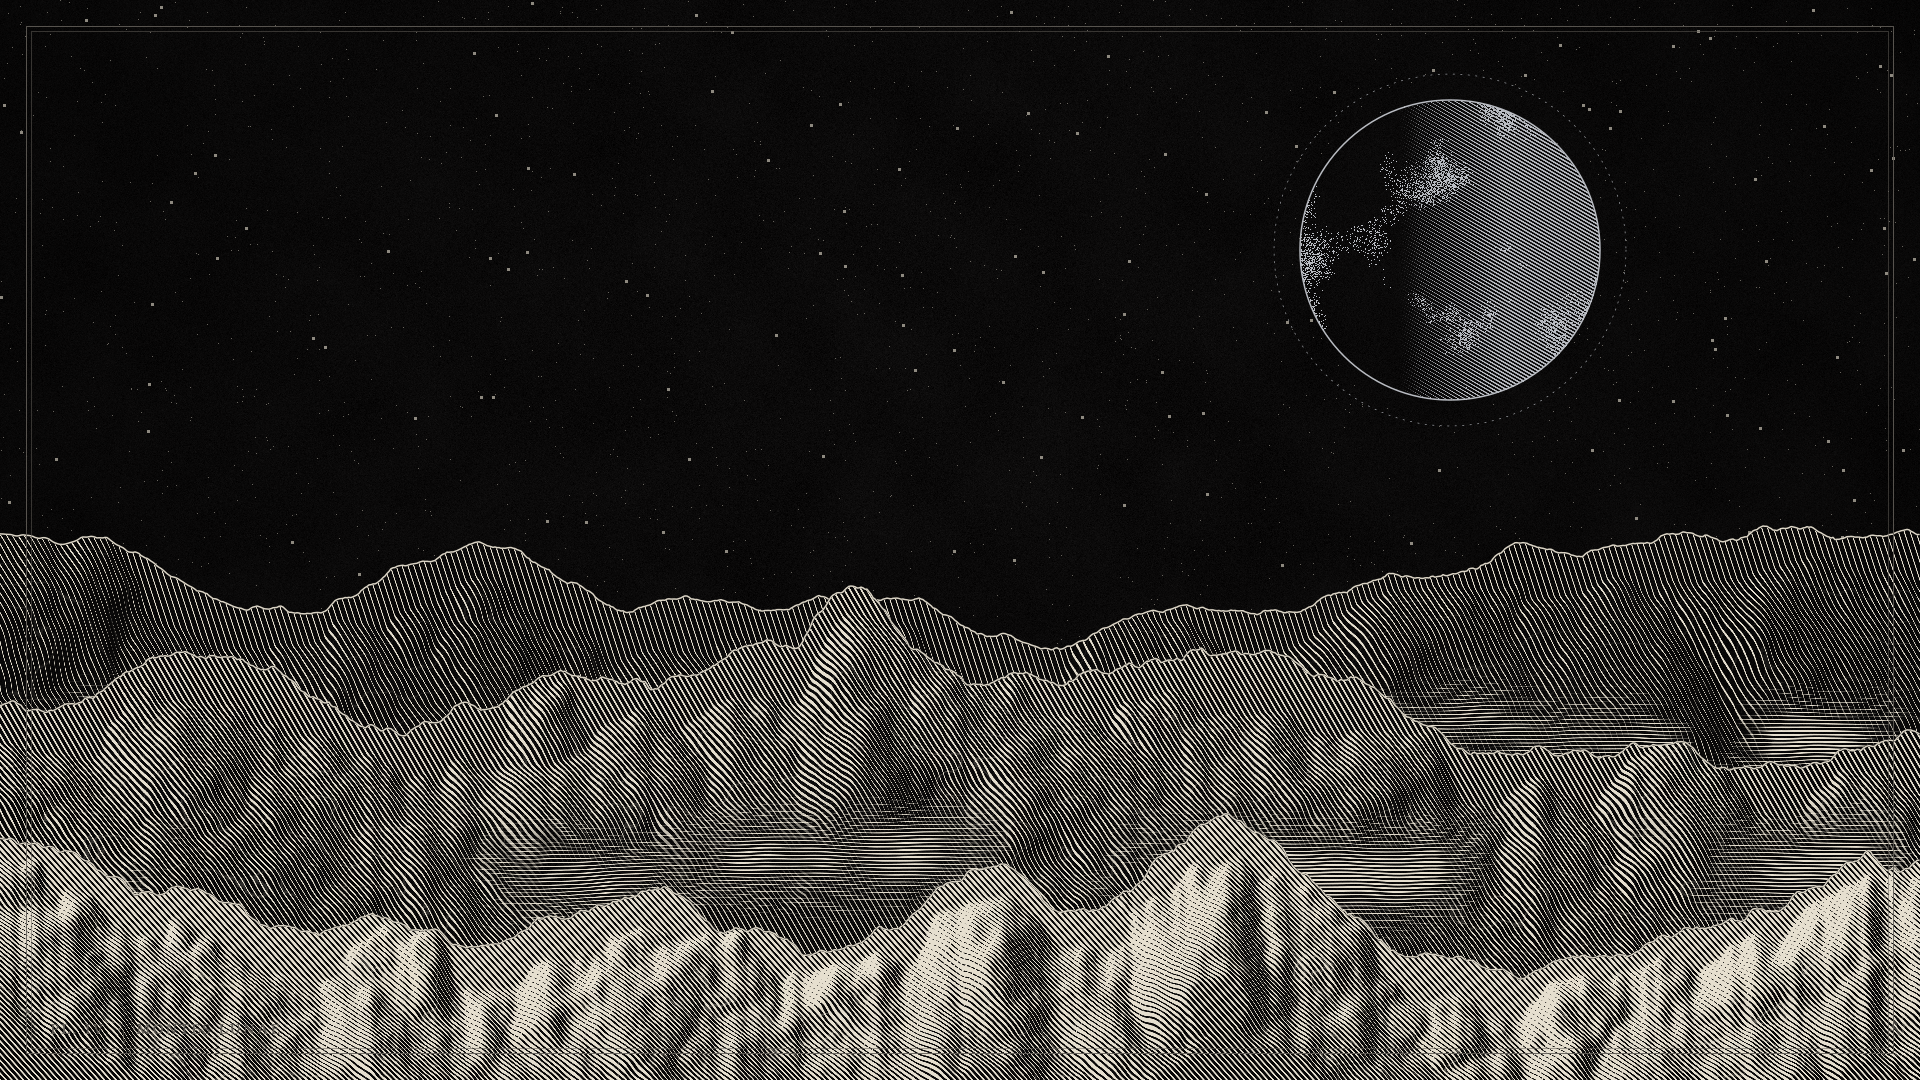
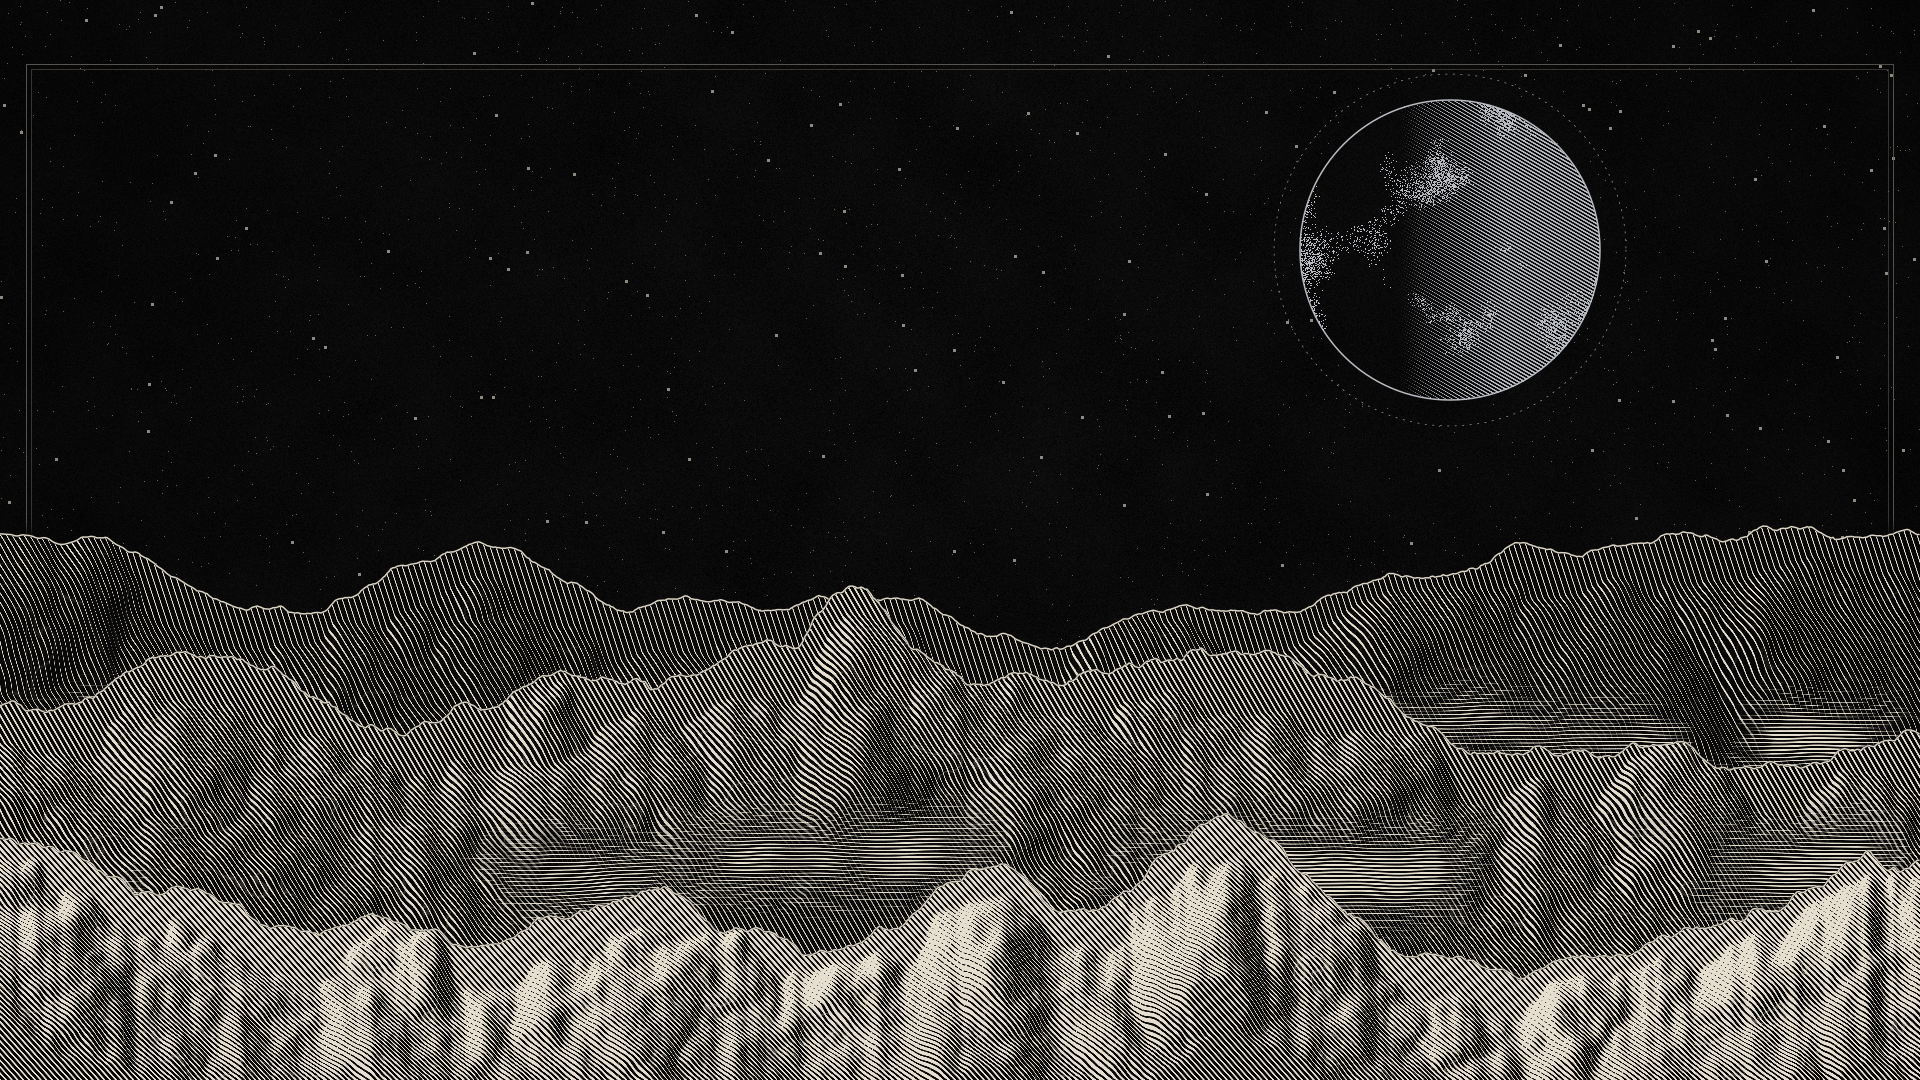
nacre: plate frame clears the bar and passes behind figures; shell uses cairo renderer
Plate marks start below the 50px bar and are masked by the engraving's
dilated region, so figures break the border. riceforge-shell defaults to
GSK_RENDERER=cairo (83 MB RSS instead of 202 MB, identical rendering).

Changed region(s): [[0.0312, 0.9472, 0.1562, 0.9778]]

diff --git a/themes/nacre/tools/plates/engrave.py b/themes/nacre/tools/plates/engrave.py
@@ -346,19 +346,28 @@ def ink_on(img, mask, colour, strength=1.0):
     return img * (1 - m) + colour * m
 
 
-def plate_mark(img, inset=26, colour=None, caption=None, credit=None, family=None):
-    """the plate's pressed border, caption and credit line."""
+def plate_mark(img, inset=26, colour=None, caption=None, credit=None, family=None, inset_top=64):
+    """the plate's pressed border, caption and credit line.
+
+    inset_top keeps the top edge of the frame below the bar (50px + margin),
+    so the engraved rules never run behind it.
+    """
     h, w = img.shape[:2]
     v = Vec(w, h)
     v.cr.set_line_width(1.0)
-    v.cr.rectangle(inset + 0.5, inset + 0.5, w - 2 * inset - 1, h - 2 * inset - 1); v.cr.stroke()
+    v.cr.rectangle(inset + 0.5, inset_top + 0.5, w - 2 * inset - 1, h - inset - inset_top - 1); v.cr.stroke()
     v.cr.set_line_width(0.6)
-    v.cr.rectangle(inset + 5.5, inset + 5.5, w - 2 * inset - 11, h - 2 * inset - 11); v.cr.stroke()
+    v.cr.rectangle(inset + 5.5, inset_top + 5.5, w - 2 * inset - 11, h - inset - inset_top - 11); v.cr.stroke()
     if caption:
         v.text(caption, inset + 24, h - inset - 20, 15, family, spacing=2.2)
     if credit:
         v.text(credit, w - inset - 24, h - inset - 20, 12, family, anchor="right", slant=True)
-    return ink_on(img, v.mask(), colour if colour is not None else STONE_RULE, 0.9)
+    # the frame passes behind the engraving: figures break out of the plate
+    # use the engraving's region, not single pixels: line art has dark gaps
+    lum = img.mean(axis=2)
+    occupied = blur(np.clip((lum - 40) / 40, 0, 1), 7)
+    behind = 1 - np.clip(occupied * 4, 0, 1)
+    return ink_on(img, v.mask() * behind, colour if colour is not None else STONE_RULE, 0.9)
 
 
 STONE_RULE = np.array([96, 92, 86], np.float32)
